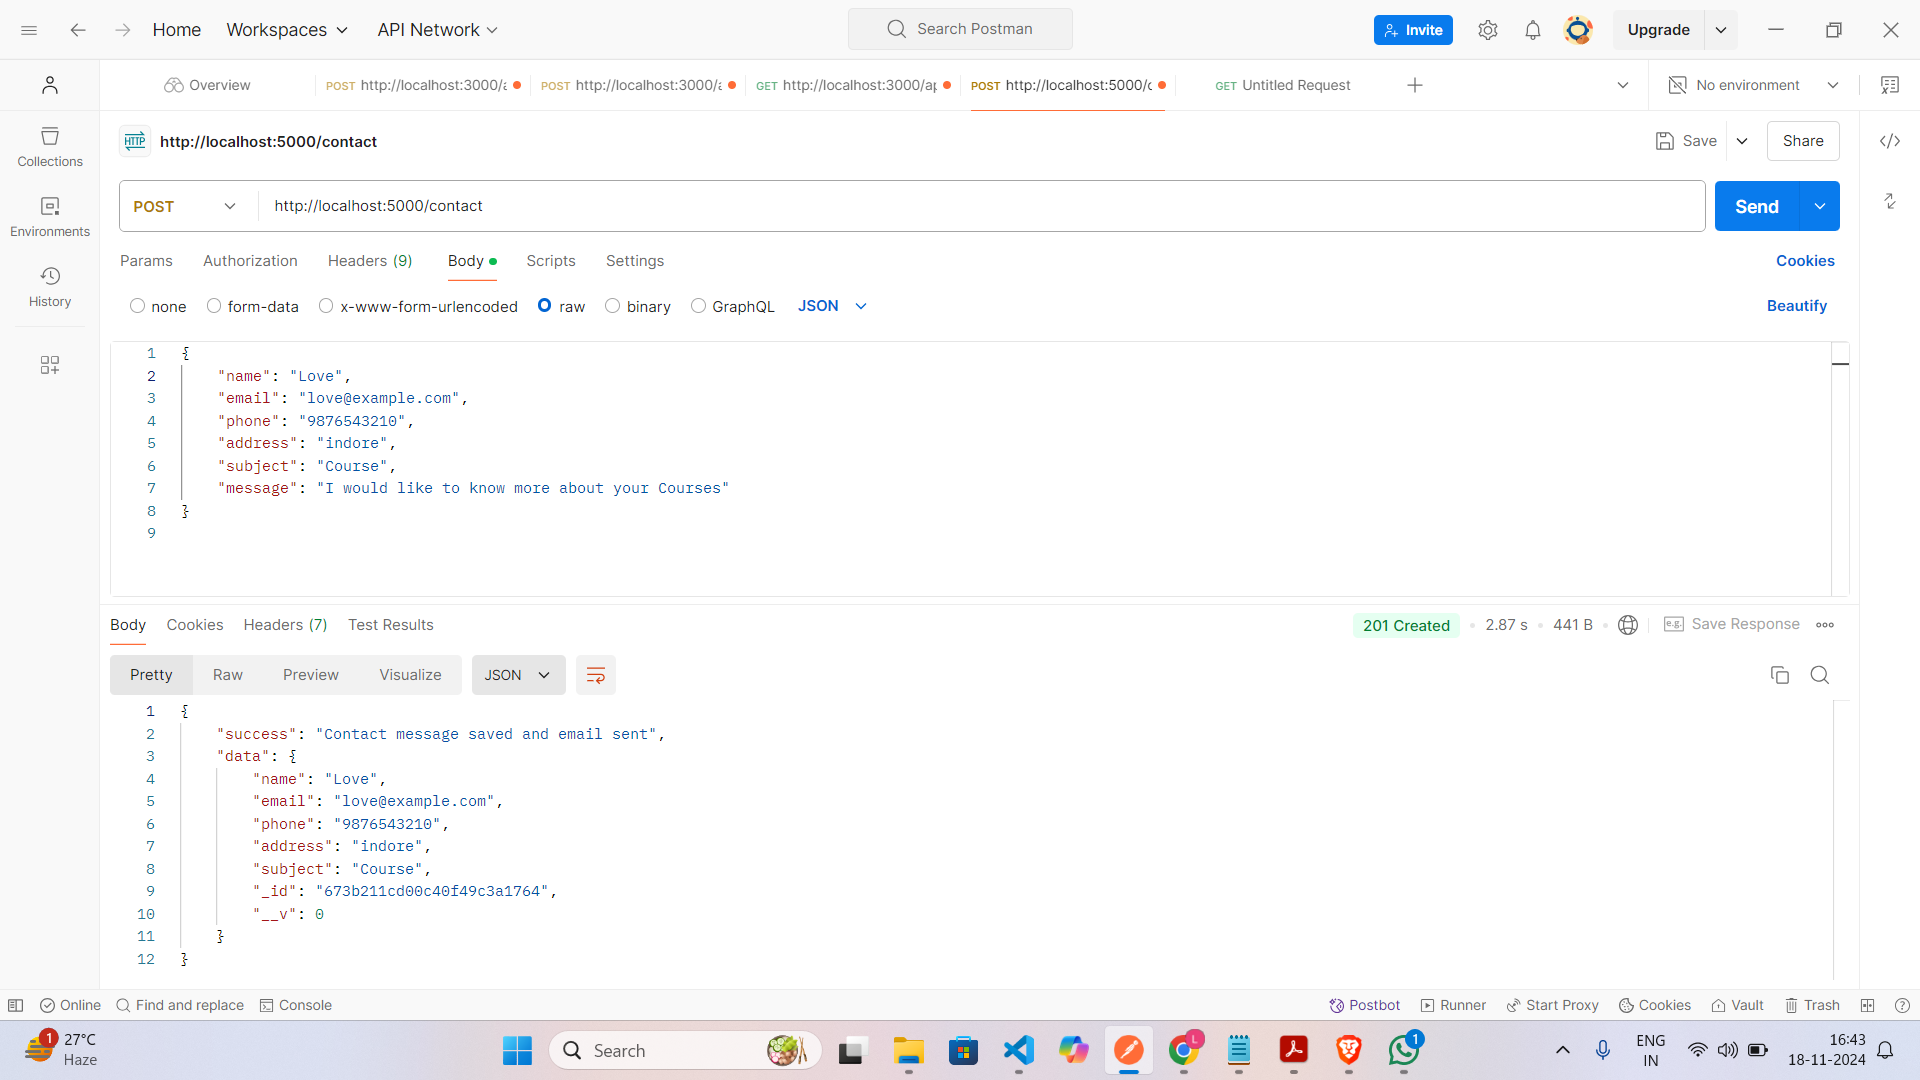
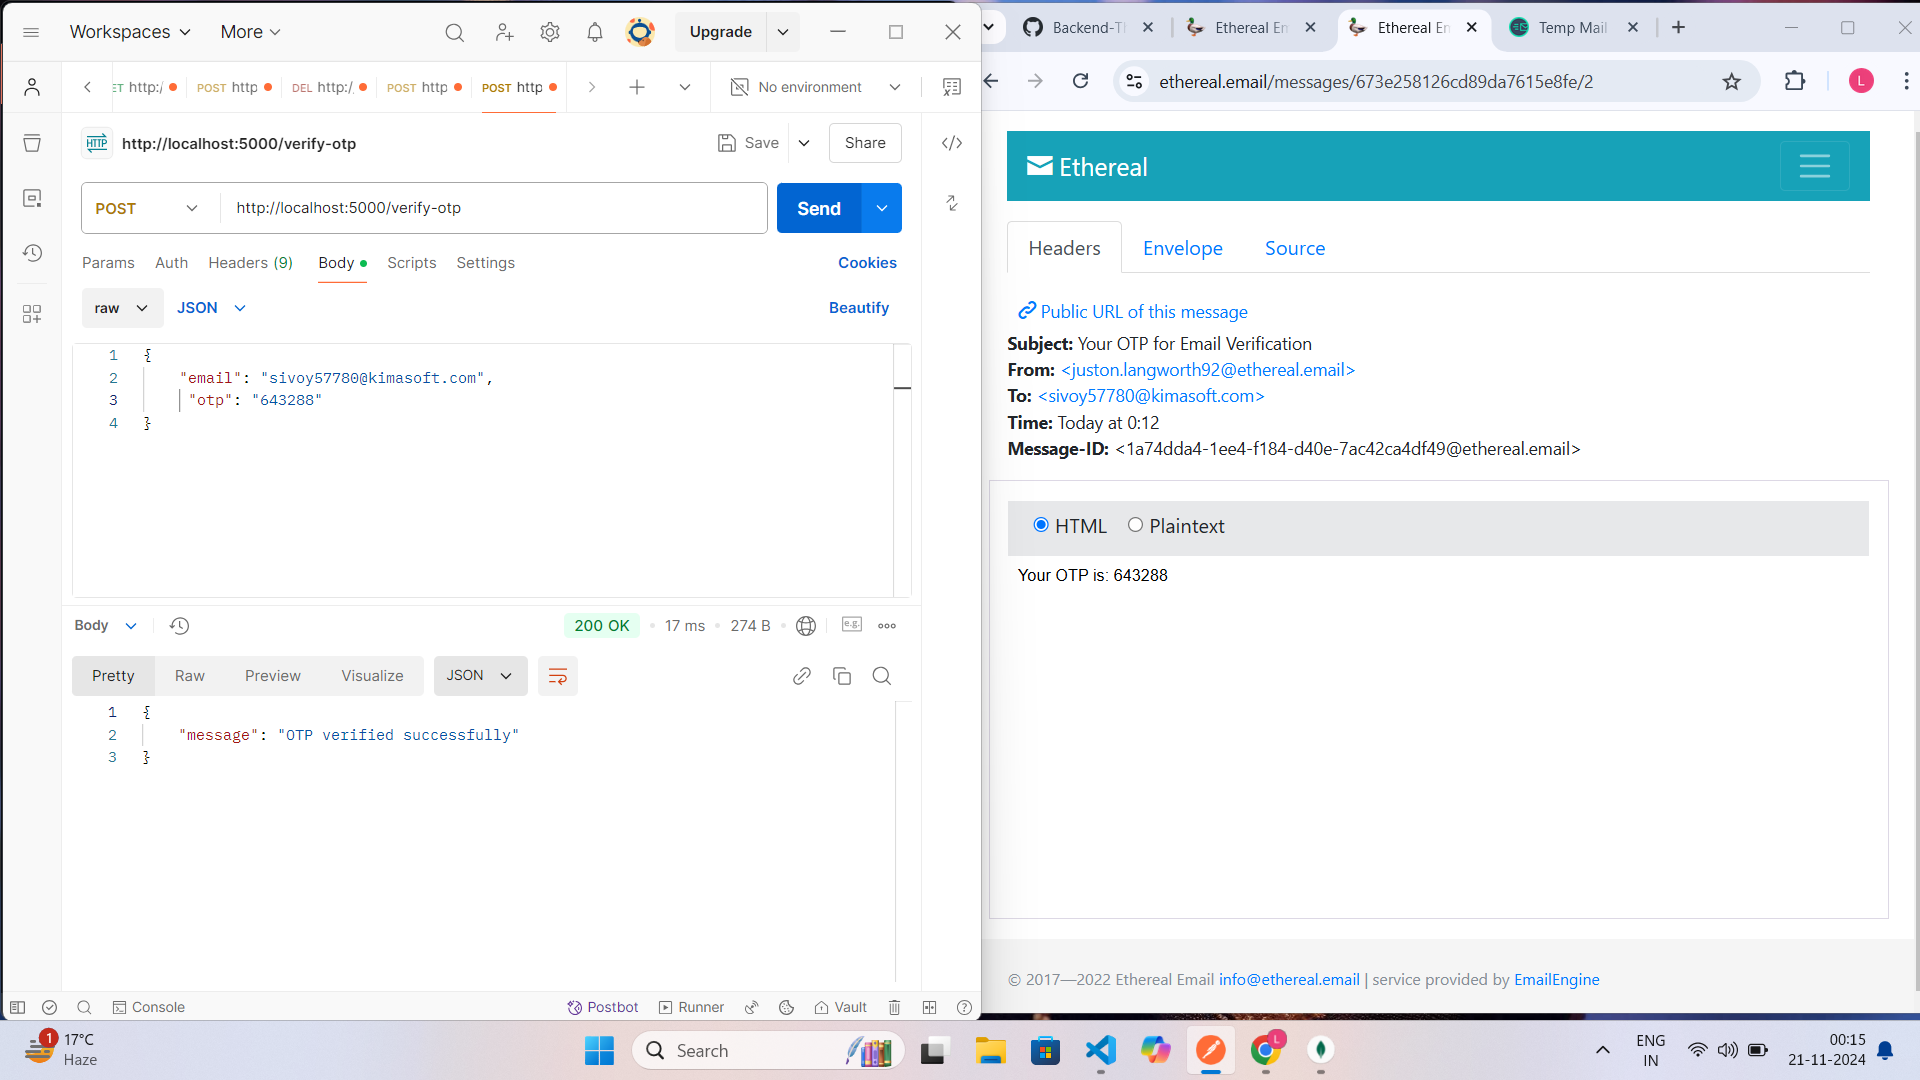
Day-03 Task Completed

diff --git a/controllers/enrollController.js b/controllers/enrollController.js
@@ -1,0 +1,99 @@
+const enroll = require('../models/enrollModel');
+const nodemailer = require('nodemailer');
+const crypto = require('crypto');
+
+// Generate OTP
+const generateOTP = () => {
+  return crypto.randomInt(100000, 999999).toString();
+};
+
+// Send OTP email
+const sendEmail = (email, otp) => {
+  const transporter = nodemailer.createTransport({
+    host: process.env.EMAIL_HOST,
+    port: process.env.EMAIL_PORT,
+    secure: false,
+    auth: {
+        user: process.env.EMAIL,
+        pass: process.env.EMAIL_PASS,
+    },
+  });
+
+  const mailOptions = {
+    from: process.env.EMAIL,
+    to: email,
+    subject: 'Your OTP for Email Verification',
+    text: `Your OTP is: ${otp}`,
+  };
+
+  return transporter.sendMail(mailOptions);
+};
+
+
+const enrollUser = async (req, res) => {
+  const { name, email, phone, message, services } = req.body;
+
+  try {
+    // Check if user already exists
+    const existingUser = await enroll.findOne({ email });
+    if (existingUser) {
+      return res.status(400).json({ error: 'User already exists' });
+    }
+
+    // Generate OTP and set expiry
+    const otp = generateOTP();
+    const otpExpiry = new Date(Date.now() + 5 * 60 * 1000); // OTP expires in 5 minutes
+
+    // Create new user entry
+    const newUser = new enroll({
+      name,
+      email,
+      phone,
+      message,
+      services,
+      otp,
+      otpExpiry,
+    });
+
+    await newUser.save();
+
+    // Send OTP to email
+    await sendEmail(email, otp);
+
+    res.status(200).json({ message: 'Enroll successful. OTP sent to email.' });
+  } catch (error) {
+    console.error(error);
+    res.status(500).json({ error: 'Server error' });
+  }
+};
+
+// Handle OTP verification
+const verifyOTP = async (req, res) => {
+  const { email, otp } = req.body;
+
+  try {
+    // Find user by email
+    const user = await enroll.findOne({ email });
+
+    if (!user) {
+      return res.status(404).json({ error: 'User not found' });
+    }
+
+    // Check if OTP is expired
+    if (user.otpExpiry < Date.now()) {
+      return res.status(400).json({ error: 'OTP has expired' });
+    }
+
+    // Verify OTP
+    if (user.otp !== otp) {
+      return res.status(400).json({ error: 'Invalid OTP' });
+    }
+
+    res.status(200).json({ message: 'OTP verified successfully' });
+  } catch (error) {
+    console.error(error);
+    res.status(500).json({ error: 'Server error' });
+  }
+};
+
+module.exports = { enrollUser, verifyOTP };

diff --git a/models/enrollModel.js b/models/enrollModel.js
@@ -1,0 +1,33 @@
+const mongoose = require('mongoose');
+
+const enrollSchema = new mongoose.Schema({
+    name: {
+        type: String,
+        required: true,
+    },
+    email: {
+        type: String,
+        required: true,
+        unique: true,
+    },
+    phone: {
+        type: String,
+        required: true,
+    },
+    message: {
+        type: String,
+        required: true,
+    },
+    services: {
+        type: [String],
+        default: [],
+    },
+    otp: {
+        type: String,
+    },
+    otpExpiry: {
+        type: Date,
+    },
+}, { timestamps: true });
+
+module.exports = mongoose.model('Enroll', enrollSchema);

diff --git a/app.js b/app.js
@@ -6,6 +6,8 @@ const userRoutes = require('./routes/userRoutes')
 require('dotenv').config();
 const path = require('path');
 const bodyParser = require('body-parser');
+const enrollRoutes = require('./routes/enrollRoutes');
+
 
 
 ConnectDb();
@@ -17,7 +19,7 @@ app.use('/uploads', express.static(path.join(__dirname, 'uploads')));
 
 app.use('/contact',contactRoutes);
 app.use('/users',userRoutes);
-
+app.use('/',enrollRoutes);
 
 const PORT = 5000;
 app.listen(PORT, () => console.log(`Server is running on port ${PORT}`));

diff --git a/routes/enrollRoutes.js b/routes/enrollRoutes.js
@@ -1,0 +1,10 @@
+const express = require('express');
+const { enrollUser, verifyOTP } = require('../controllers/enrollController');
+
+
+const router = express.Router();
+
+router.post('/enroll', enrollUser);
+router.post('/verify-otp', verifyOTP);
+
+module.exports = router;

diff --git a/README.md b/README.md
@@ -1,27 +1,9 @@
 # Backend-The-Assigner
-# Day-01 Task
+
+# Day-03 Task(Enroll form)
+
+<h3>Enroll for service</h3>
+![alt text](<Screenshot (74).png>)
+
+<h3>Otp verification</h3>
 ![alt text](image.png)
-
-
-# Day-02 Task(User Profile)
-
-<h4>create user</h4>
-
-![alt text](image-1.png)
-
-
-<h4>get all user</h4>
-
-![alt text](image-2.png)
-
-<h4>get user by id</h4>
-
-![alt text](image-3.png)
-
-<h4>Update user by id</h4>
-
-![alt text](image-4.png)
-
-<h4>Delete user by id</h4>
-
-![alt text](image-5.png)
